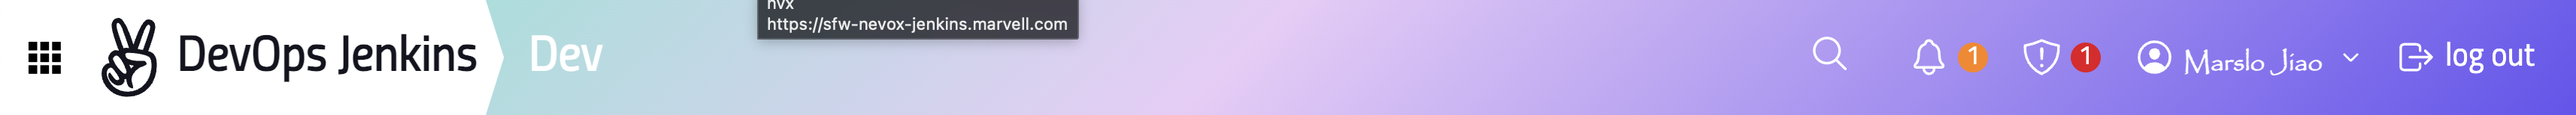
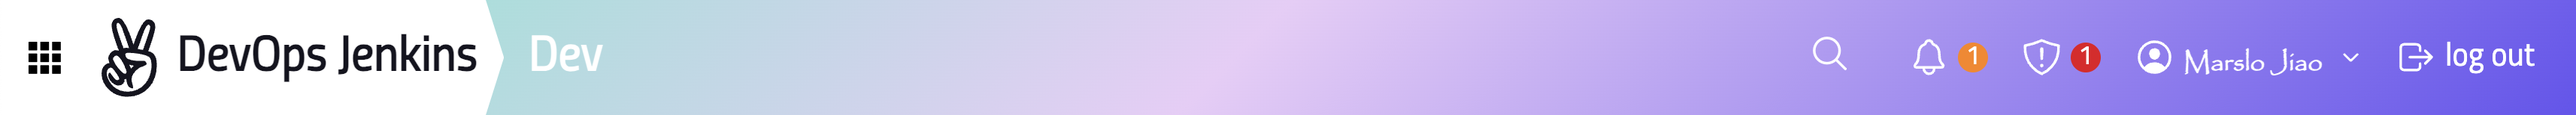
add more gradient

Changed region(s): [[0.2811, 0.0, 0.4372, 0.3896]]

diff --git a/docs/jenkins/plugins/customizable-header.md b/docs/jenkins/plugins/customizable-header.md
@@ -19,12 +19,13 @@
 > - [CSS Gradient Generator](https://www.colorzilla.com/gradient-editor/)
 > - [RGBA to RGB converter](https://borderleft.com/toolbox/rgba/)
 > - [tumblr/colorfulgradients](https://www.tumblr.com/colorfulgradients)
+> - [NilStack/NilColorKit](https://github.com/NilStack/NilColorKit)
 
 ### gradient
+
 - `linear-gradient( 68.2deg,  rgba(255,202,88,1) 0%, rgba(139,73,255,1) 100.2% );`
 
   ![header - 1](../../screenshot/jenkins/header/header-1.png)
-
 
 - `linear-gradient( 90deg,  rgba(188,120,236,1) -2.2%, rgba(29,133,163,1) 83.5% );`
 
@@ -207,6 +208,18 @@
 
   ![header - 46](../../screenshot/jenkins/header/header-46.png)
 
+- `linear-gradient( 109.6deg,  rgba(245,56,56,1) 11.2%, rgba(234,192,117,1) 78% );`
+
+  ![header - 47](../../screenshot/jenkins/header/header-47.png)
+
+- `linear-gradient( 105.5deg,  rgba(31,212,248,1) 11%, rgba(218,15,183,1) 74.9% );`
+
+  ![header - 48](../../screenshot/jenkins/header/header-48.png)
+
+- `radial-gradient( circle farthest-corner at 10% 20%,  rgba(235,131,130,1) 0%, rgba(235,131,130,0.75) 38.6%, rgba(211,177,125,0.52) 72.1%, rgba(211,177,125,0.24) 94.7% );`
+
+  ![header - 49](../../screenshot/jenkins/header/header-49.png)
+
 ## jcasc
 ```yaml
 appearance:
@@ -214,9 +227,9 @@ appearance:
     enabled: true
     header: "logo"
     headerColor:
-      backgroundColor: "linear-gradient(135deg, #92FFC0 10%, #002661 100%);"
+      backgroundColor: "linear-gradient( 90deg,  rgba(188,120,236,1) -2.2%, rgba(29,133,163,1) 83.5% );"
       color: "white"
-      hoverColor: "#2a647c"
+      hoverColor: "#617fc2"
     logo:
       svg:
         logoPath: "https://artifactory.sample.com/artifactory/devops/jenkins/icon/header/logo-vert-padded-square-BLACK.svg"
